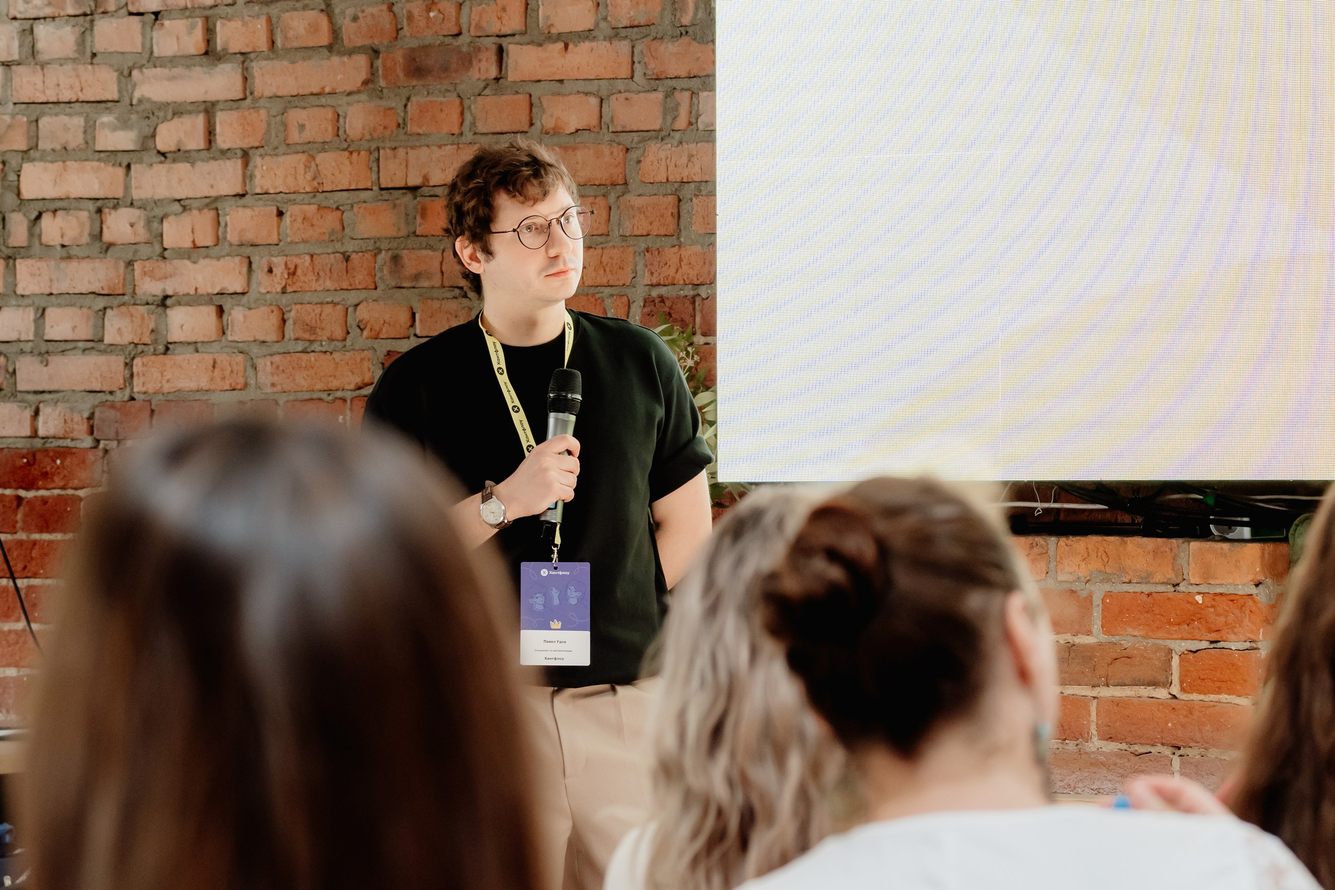
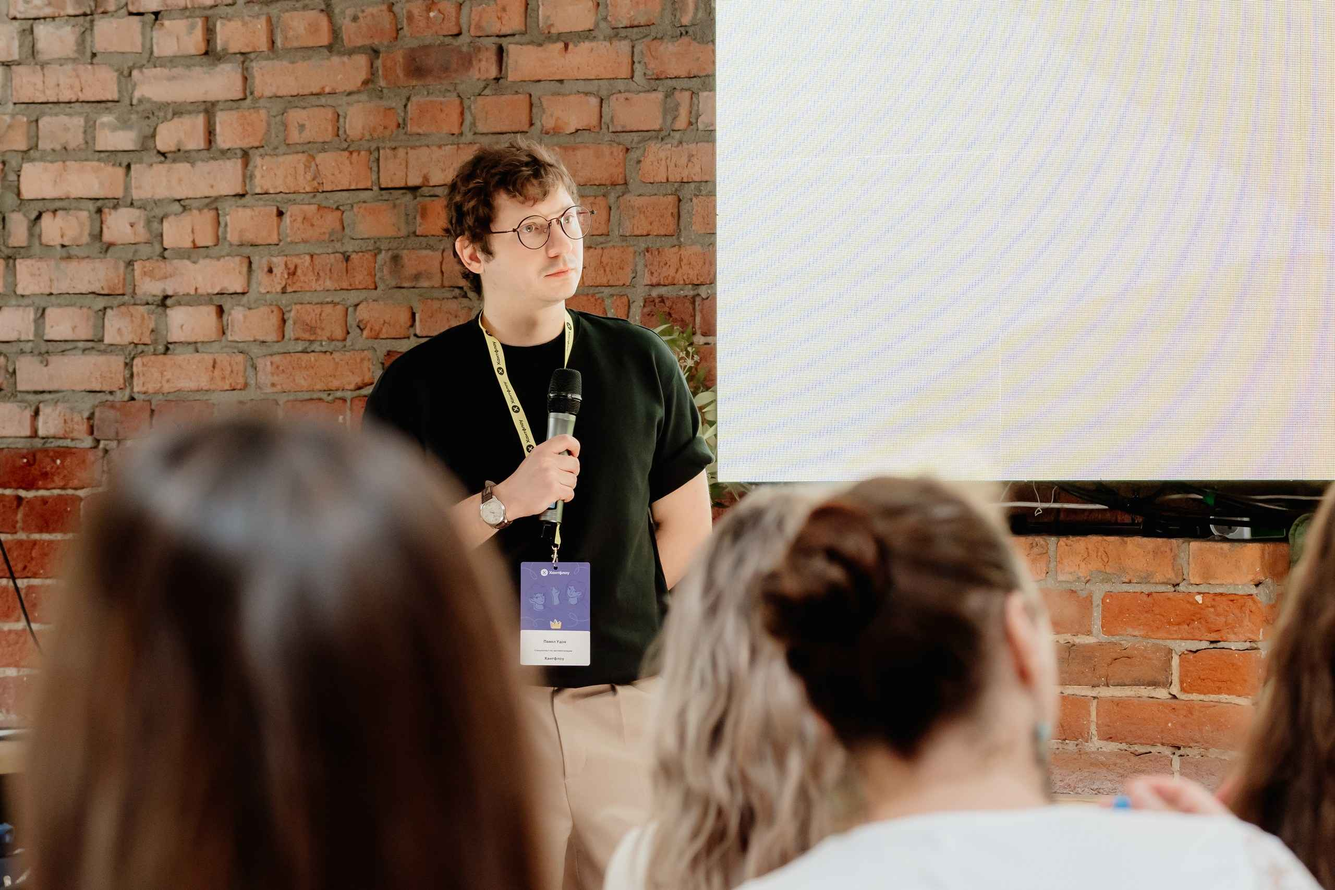
Optimize images, update AI & sales scope, fix lightbox captions

diff --git a/index.html b/index.html
@@ -69,7 +69,7 @@
     <div class="hero-content">
       <div class="hero-copy">
         <h1 class="typewriter-line" data-typewriter="Удов Павел">Удов Павел</h1>
-        <p class="hero-role typewriter-line" data-typewriter="Account Executive · B2B SaaS / HR-Tech" style="margin:12px 0 0;font-size:clamp(17px,2.2vw,21px);font-weight:600;letter-spacing:-.01em;">
+        <p class="hero-role typewriter-line" data-typewriter="Account Executive · B2B SaaS / HR-Tech">
           Account Executive · B2B SaaS / HR-Tech
         </p>
         <p class="hero-summary">
@@ -80,15 +80,15 @@
         </p>
         <div class="facts-list">
           <div class="fact">
-            <strong>14+</strong>
+            <strong data-count="14" data-suffix="+">14+</strong>
             <span>лет в B2B-продажах</span>
           </div>
           <div class="fact">
-            <strong>700+</strong>
+            <strong data-count="700" data-suffix="+">700+</strong>
             <span>сделок в Хантфлоу</span>
           </div>
           <div class="fact">
-            <strong>6+</strong>
+            <strong data-count="6" data-suffix="+">6+</strong>
             <span>лет в B2B SaaS</span>
           </div>
         </div>
@@ -133,7 +133,7 @@
         </div>
         <div class="scope-item">
           <span class="scope-label">Дополнительно</span>
-          <strong>Консультирую по логике подключения и использования API и интеграций, сопровождаю перенос данных из «Поток», E-Staff и Talantix. Пишу Telegram-ботов и небольшие инструменты для автоматизации продаж.</strong>
+          <strong>Консультирую по логике подключения и использования API и интеграций, сопровождаю перенос данных из «Поток», E-Staff и Talantix.</strong>
         </div>
         <div class="scope-item">
           <span class="scope-label">Стек и инструменты</span>
@@ -141,7 +141,7 @@
         </div>
         <div class="scope-item">
           <span class="scope-label">AI &amp; Инструменты</span>
-          <strong>ChatGPT, Claude, Gemini. Работа с AI-агентами (OpenCode, DeepSeek Harness) для ресерча, генерации КП и аналитических дашбордов.</strong>
+          <strong>ChatGPT, Claude, Gemini, Antigravity. Ресерч клиентов, ускоренная подготовка КП, создание дашбордов для ускорения анализа воронки и планирования на основе конверсий. Вайб-кодинг прикладных решений: разработка Telegram-ботов, микросервисов и скриптов автоматизации рутины с помощью AI-агентов.</strong>
         </div>
       </div>
     </div>
@@ -305,7 +305,7 @@
       </div>
       <div class="speaking-layout">
         <div>
-          <strong class="speaking-number">20+</strong>
+          <strong class="speaking-number" data-count="20" data-suffix="+">20+</strong>
           <p>выступлений и вебинаров</p>
           <p>Форматы: офлайн-конференции, мастер-классы, вебинары, онлайн-митапы.</p>
         </div>

diff --git a/script.js b/script.js
@@ -72,7 +72,7 @@ function initPrint() {
   const finalizeCounters = () => {
     $$('.fact strong, .speaking-number').forEach(el => {
       const end = el.dataset.count || el.textContent.replace(/[^\d]/g, '');
-      const suffix = el.textContent.replace(/[\d\s]/g, '');
+      const suffix = el.dataset.suffix !== undefined ? el.dataset.suffix : el.textContent.replace(/[\d\s]/g, '');
       el.textContent = end + suffix;
     });
   };
@@ -143,7 +143,7 @@ function initCounters() {
       const source = el.dataset.count || el.textContent.replace(/[^\d]/g, '');
       const end = Number(source);
       if (!Number.isFinite(end)) return;
-      const suffix = el.textContent.replace(/[\d\s]/g, '');
+      const suffix = el.dataset.suffix !== undefined ? el.dataset.suffix : el.textContent.replace(/[\d\s]/g, '');
       const duration = 1800;
       const start = performance.now();
       const tick = now => {
@@ -197,7 +197,7 @@ function initGallery() {
     const img = gItems[lbIndex].querySelector('img');
     lbImg.src = img.src;
     lbImg.alt = img.alt;
-    lbCap.textContent = gItems[lbIndex].querySelector('figcaption')?.textContent || '';
+    lbCap.textContent = gItems[lbIndex].querySelector('figcaption')?.textContent || img.alt || '';
     lbCount.textContent = (lbIndex + 1) + ' / ' + gItems.length;
     lightbox.classList.add('open');
     lightbox.setAttribute('aria-hidden', 'false');

diff --git a/style.css b/style.css
@@ -232,7 +232,7 @@ img{display:block;max-width:100%}
   animation:type-caret 1s steps(1) infinite;
 }
 @keyframes type-caret{50%{opacity:0}}
-.hero-copy h2{
+.hero-role{
   margin:12px 0 0;
   font-size:clamp(17px,2.2vw,21px);
   font-weight:600;
@@ -335,6 +335,9 @@ img{display:block;max-width:100%}
   margin-bottom:8px;
 }
 .scope-item strong{font-size:15.5px;font-weight:600;letter-spacing:-.01em}
+@media(min-width:901px){
+  .scope-item:last-child{grid-column:span 2}
+}
 
 /* ——— experience ——— */
 .experience-item{padding-block:36px;border-top:1px solid var(--line);border-radius:var(--radius);transition:transform .3s var(--ease),background-color .3s var(--ease)}
@@ -629,6 +632,7 @@ img{display:block;max-width:100%}
   .scope-item{padding:3mm!important}
   .scope-label{font-size:7pt!important;margin-bottom:1.5mm!important}
   .scope-item strong{font-size:9pt!important}
+  .scope-item:last-child{grid-column:span 2!important}
   .experience-item{padding:4mm 0!important;break-inside:avoid}
   .experience-item.experience-item--featured{break-inside:auto!important;page-break-inside:auto!important}
   .experience-item:first-of-type{padding-top:0!important}
